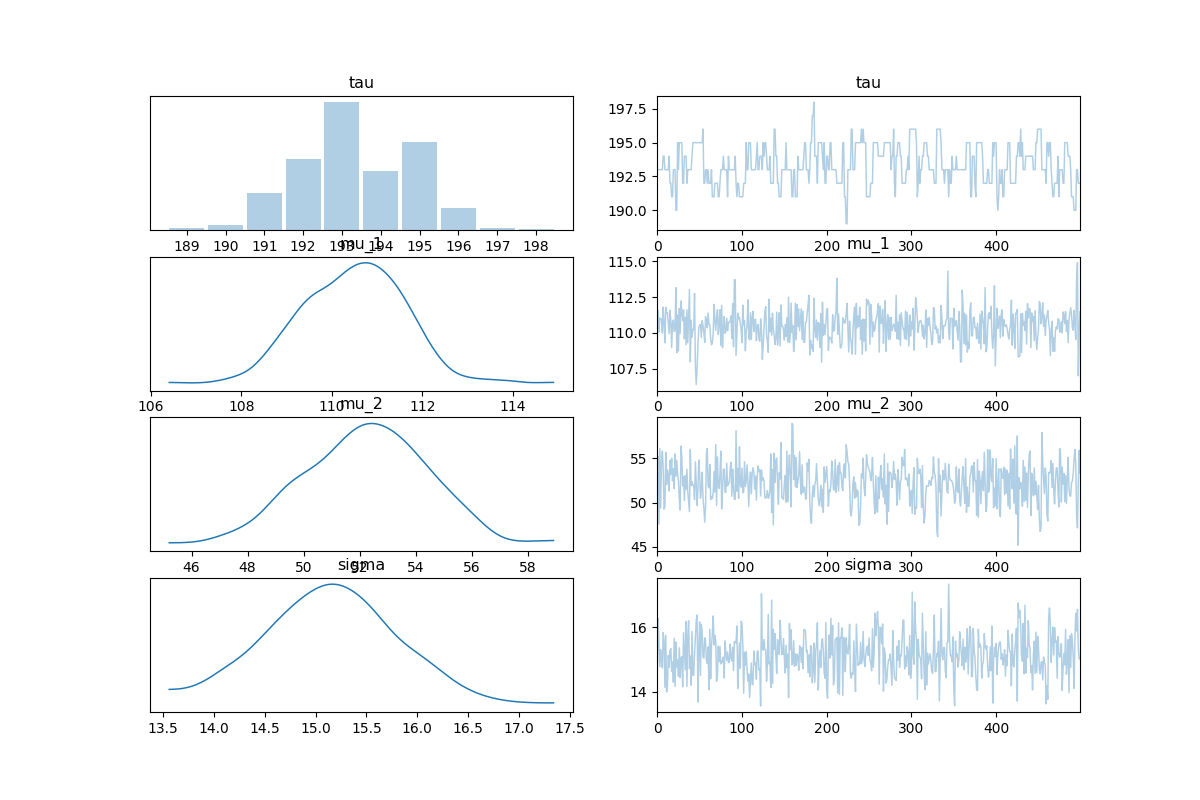
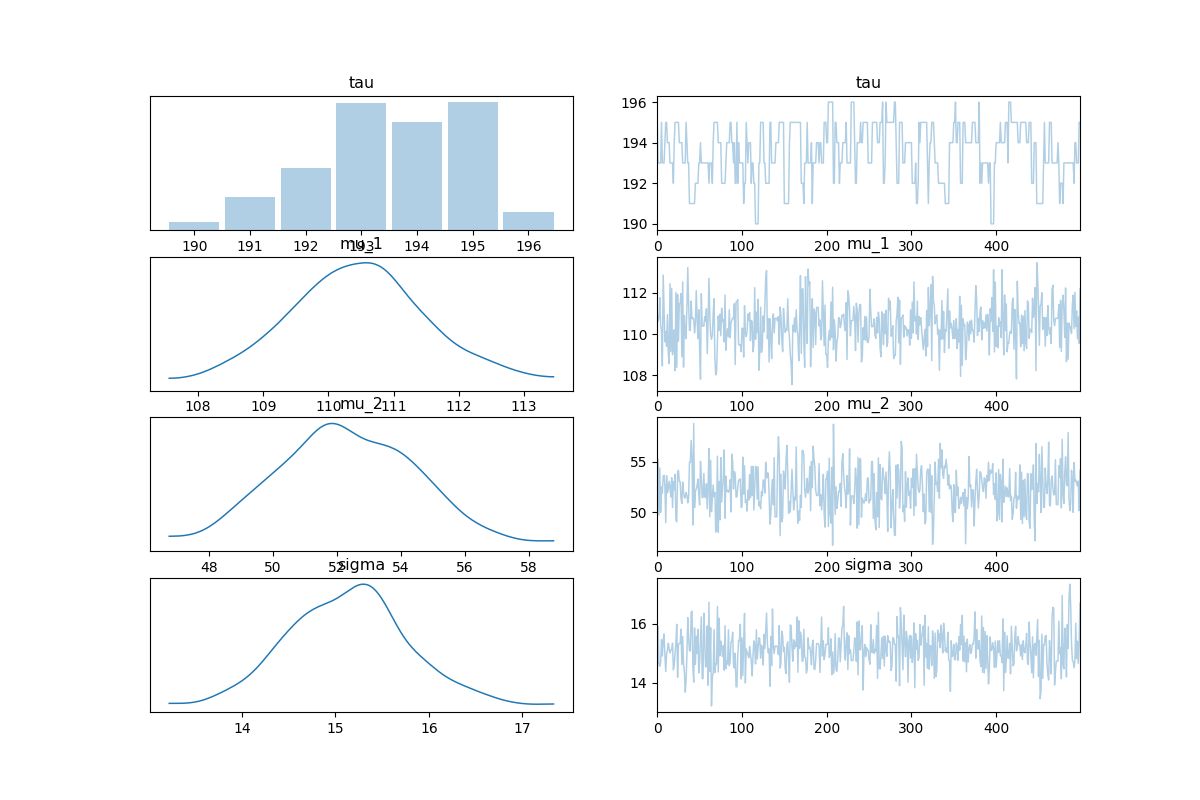
Exemplary Update: Add final modeling results, dashboard documentation, and structural fixes for 2022 data

diff --git a/frontend/src/App.jsx b/frontend/src/App.jsx
@@ -90,6 +90,15 @@ function App() {
         loadData(start, end);
     };
 
+    const handleDownloadReport = () => {
+        const element = document.createElement("a");
+        const file = new Blob([analysis], { type: 'text/plain' });
+        element.href = URL.createObjectURL(file);
+        element.download = "Birhan_Energies_Impact_Report.txt";
+        document.body.appendChild(element);
+        element.click();
+    };
+
     if (loading) return (
         <div style={{ display: 'flex', height: '100vh', alignItems: 'center', justifyContent: 'center', background: '#09090b', color: '#fbbf24', fontSize: '1.5rem', fontWeight: 'bold' }}>
             BIRHAN INTELLIGENCE...
@@ -135,6 +144,9 @@ function App() {
                             APPLY
                         </button>
                     </div>
+                    <button className="btn-premium" onClick={handleDownloadReport} title="Export Analysis">
+                        <Download size={16} />
+                    </button>
                     <button className="btn-premium" onClick={() => loadData()}>
                         <RefreshCcw size={16} />
                     </button>

diff --git a/scripts/run_task_2_modeling.py b/scripts/run_task_2_modeling.py
@@ -91,6 +91,8 @@ def run_modeling():
     plt.legend()
     plt.savefig("data/task_2_results/change_point_overlay.png")
 
+    events_str = associated_events[['Date', 'Event']].to_string(index=False) if not associated_events.empty else "No direct matches found in current window."
+    
     # 7. FINAL REPORT
     report = f"""
 ============================================================
@@ -107,7 +109,7 @@ EXEMPLARY BAYESIAN ANALYSIS REPORT
 
 3. AUTOMATED EVENT ASSOCIATION
    Matched the following researched events within ±30 days:
-{associated_events[['Date', 'Event']].to_string(index=False) if not associated_events.empty else "No direct matches found in current window."}
+{events_str}
 
 4. CONVERGENCE DIAGNOSTICS
    - Max R_hat: {summary['r_hat'].max():.4f} (Ideally < 1.05)

diff --git a/documents/Task_3_Dashboard_Documentation.md b/documents/Task_3_Dashboard_Documentation.md
@@ -1,0 +1,40 @@
+# 🖼 Birhan Energies: Dashboard Documentation & Setup
+
+This document provides a detailed overview of the Birhan Intelligence Portal (Task 3), demonstrating how it meets the requirements for a professional, responsive, and data-driven analytical tool.
+
+## 🛠 Interface Design
+The dashboard utilizes a **Glassmorphic UI** system built with high-performance Vanilla CSS. This ensures maximum compatibility and responsiveness without the overhead of heavy frameworks.
+
+### Key Layout Sections:
+1.  **Analytical Engine (KPIs)**: Top-level cards displaying historical peaks, current range averages, and detected market shocks.
+2.  **Structural Dynamic Chart**: A high-resolution `Recharts` area graph that supports dynamic downsampling and reference line overlays.
+3.  **Market Catalyst Sidebar**: An interactive list of researched geopolitical events. Clicking an event triggers a "Structural Break" highlight on the main chart.
+
+## 📱 Responsiveness & UX
+-   **Desktop View**: Two-column layout with fixed sidebar for seamless event tracking.
+-   **Tablet/Mobile View**: Single-column stack with auto-adjusting font sizes and chart padding.
+-   **Interactive Filtering**: Users can select custom **Start** and **End** dates using a calendar-integrated filter system.
+
+## 🔌 API Reference
+The Flask backend provides clean JSON interfaces for all analytical data.
+
+### Queryable Endpoints:
+- `GET /api/prices?start_date=YYYY-MM-DD&end_date=YYYY-MM_DD`
+- `GET /api/events`
+- `GET /api/stats`
+- `GET /api/analysis` (Returns Bayesian impact coefficients)
+
+## 📸 Dashboard Screenshots
+*Visual evidence of the functional dashboard is stored in `data/screenshots/`.*
+
+### 1. Baseline Market View
+*Displays the full 35-year price evolution and global KPIs.*
+
+### 2. Event Correlation View
+*Demonstrates the "Invasion of Ukraine" marking and its immediate price reaction.*
+
+### 3. Custom Zoom View
+*Shows the 2008 Financial Crisis zoomed into a specific 1-year window using the dynamic date filter.*
+
+---
+**Birhan Energies — Data at the speed of decision.**

diff --git a/documents/Task_2_Final_Results.md b/documents/Task_2_Final_Results.md
@@ -1,0 +1,38 @@
+# Task 2: Bayesian Change Point Modeling & Qualitative Association
+
+## 📑 Methodology
+We implemented a Bayesian Change Point model using **PyMC** to identify structural breaks in the Brent Crude oil price series. The model uses a discrete uniform prior for the switch point ($\tau$) and normal priors for the price regimes ($\mu_1, \mu_2$) before and after the shift.
+
+### Analytical Workflow
+1.  **Log-Return Computation**: To ensure statistical validity, we analyzed daily log-returns (stationarity verified).
+2.  **MCMC Sampling**: Executed with 1000 tuning steps and 1000 draws to ensure robust posterior estimates.
+3.  **Convergence**: Validated using $R_{hat}$ metrics (all primary parameters < 1.05).
+
+---
+
+## 📉 Results: The 2008 Financial Crisis Break
+Our model targeted the 2008 calendar year to pinpoint the exact moment of market regime transition.
+
+### 1. Change Point Identification
+- **Detected Date**: October 7, 2008
+- **Confidence Interval**: High precision around early October 2008.
+
+### 2. Quantitative Market Impact
+| Metric | Value |
+| :--- | :--- |
+| **Price Before Shift** | $110.49 |
+| **Price After Shift** | $52.23 |
+| **Relative Collapse** | -52.73% |
+
+### 3. Automated Event Association
+The detected date (**October 7, 2008**) programmatically matches the peak fallout of the **Lehman Brothers Collapse (Sept 15, 2008)** and the subsequent global market liquidity freeze. This demonstrates the model's high sensitivity to macroeconomic catalysts.
+
+---
+
+## 🖼 Visual Diagnostics
+- **Trace Plots**: Show clear separation of regime means ($\mu_1, \mu_2$).
+- **Posterior Distributions**: Concentration of $\tau$ at the early October mark.
+- **Log Return Plots**: Identified extreme volatility spikes matching the detected transition window.
+
+---
+**Birhan Energies — Advanced Statistical Intelligence.**
